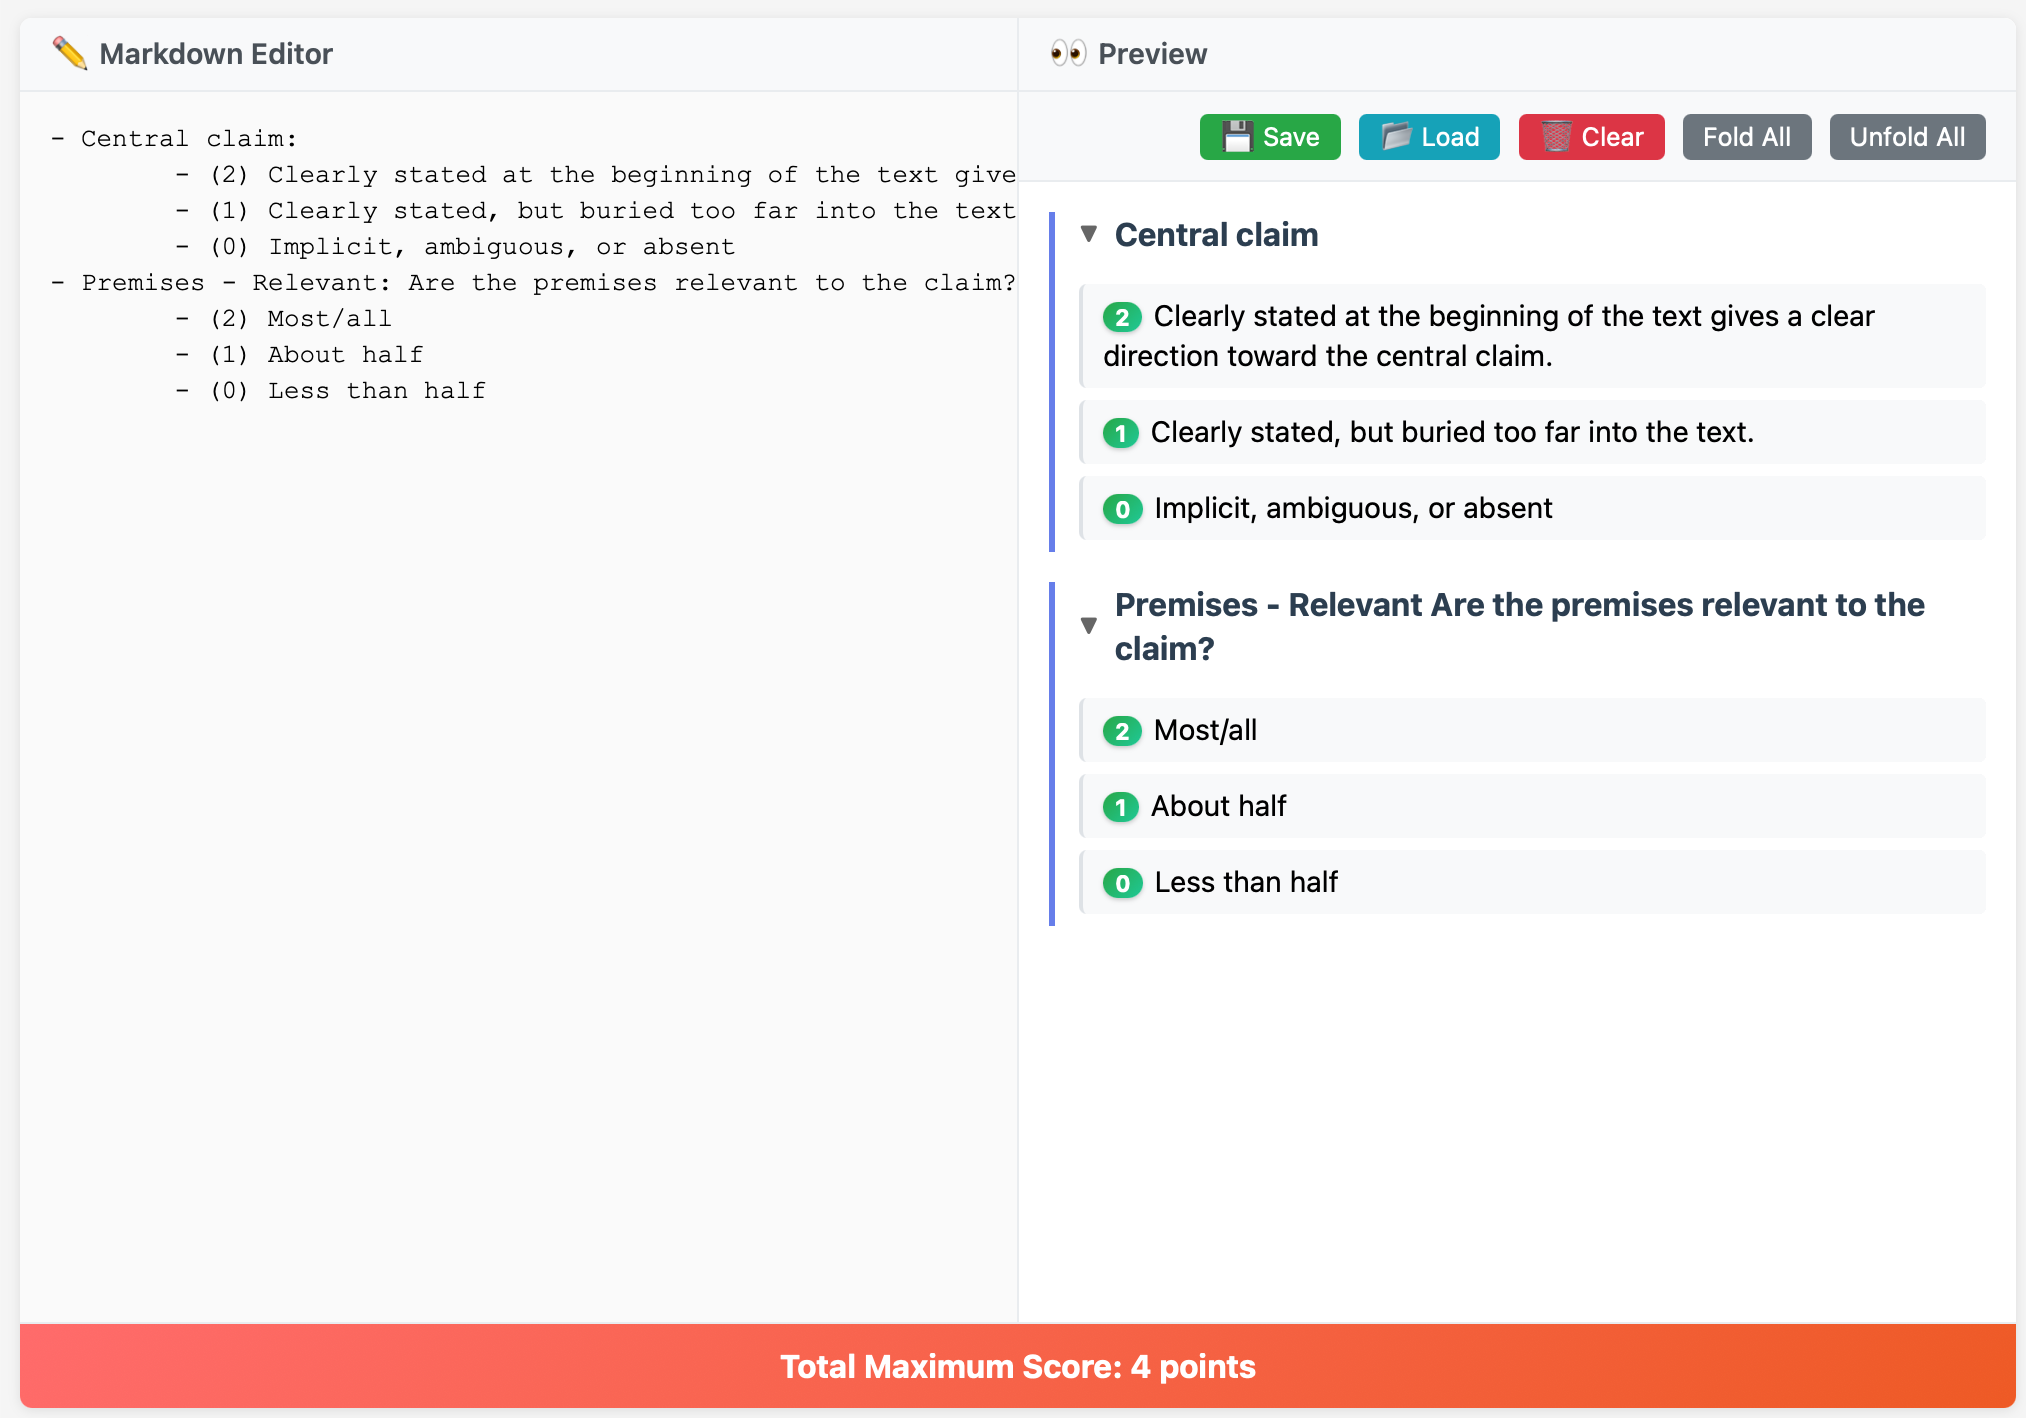
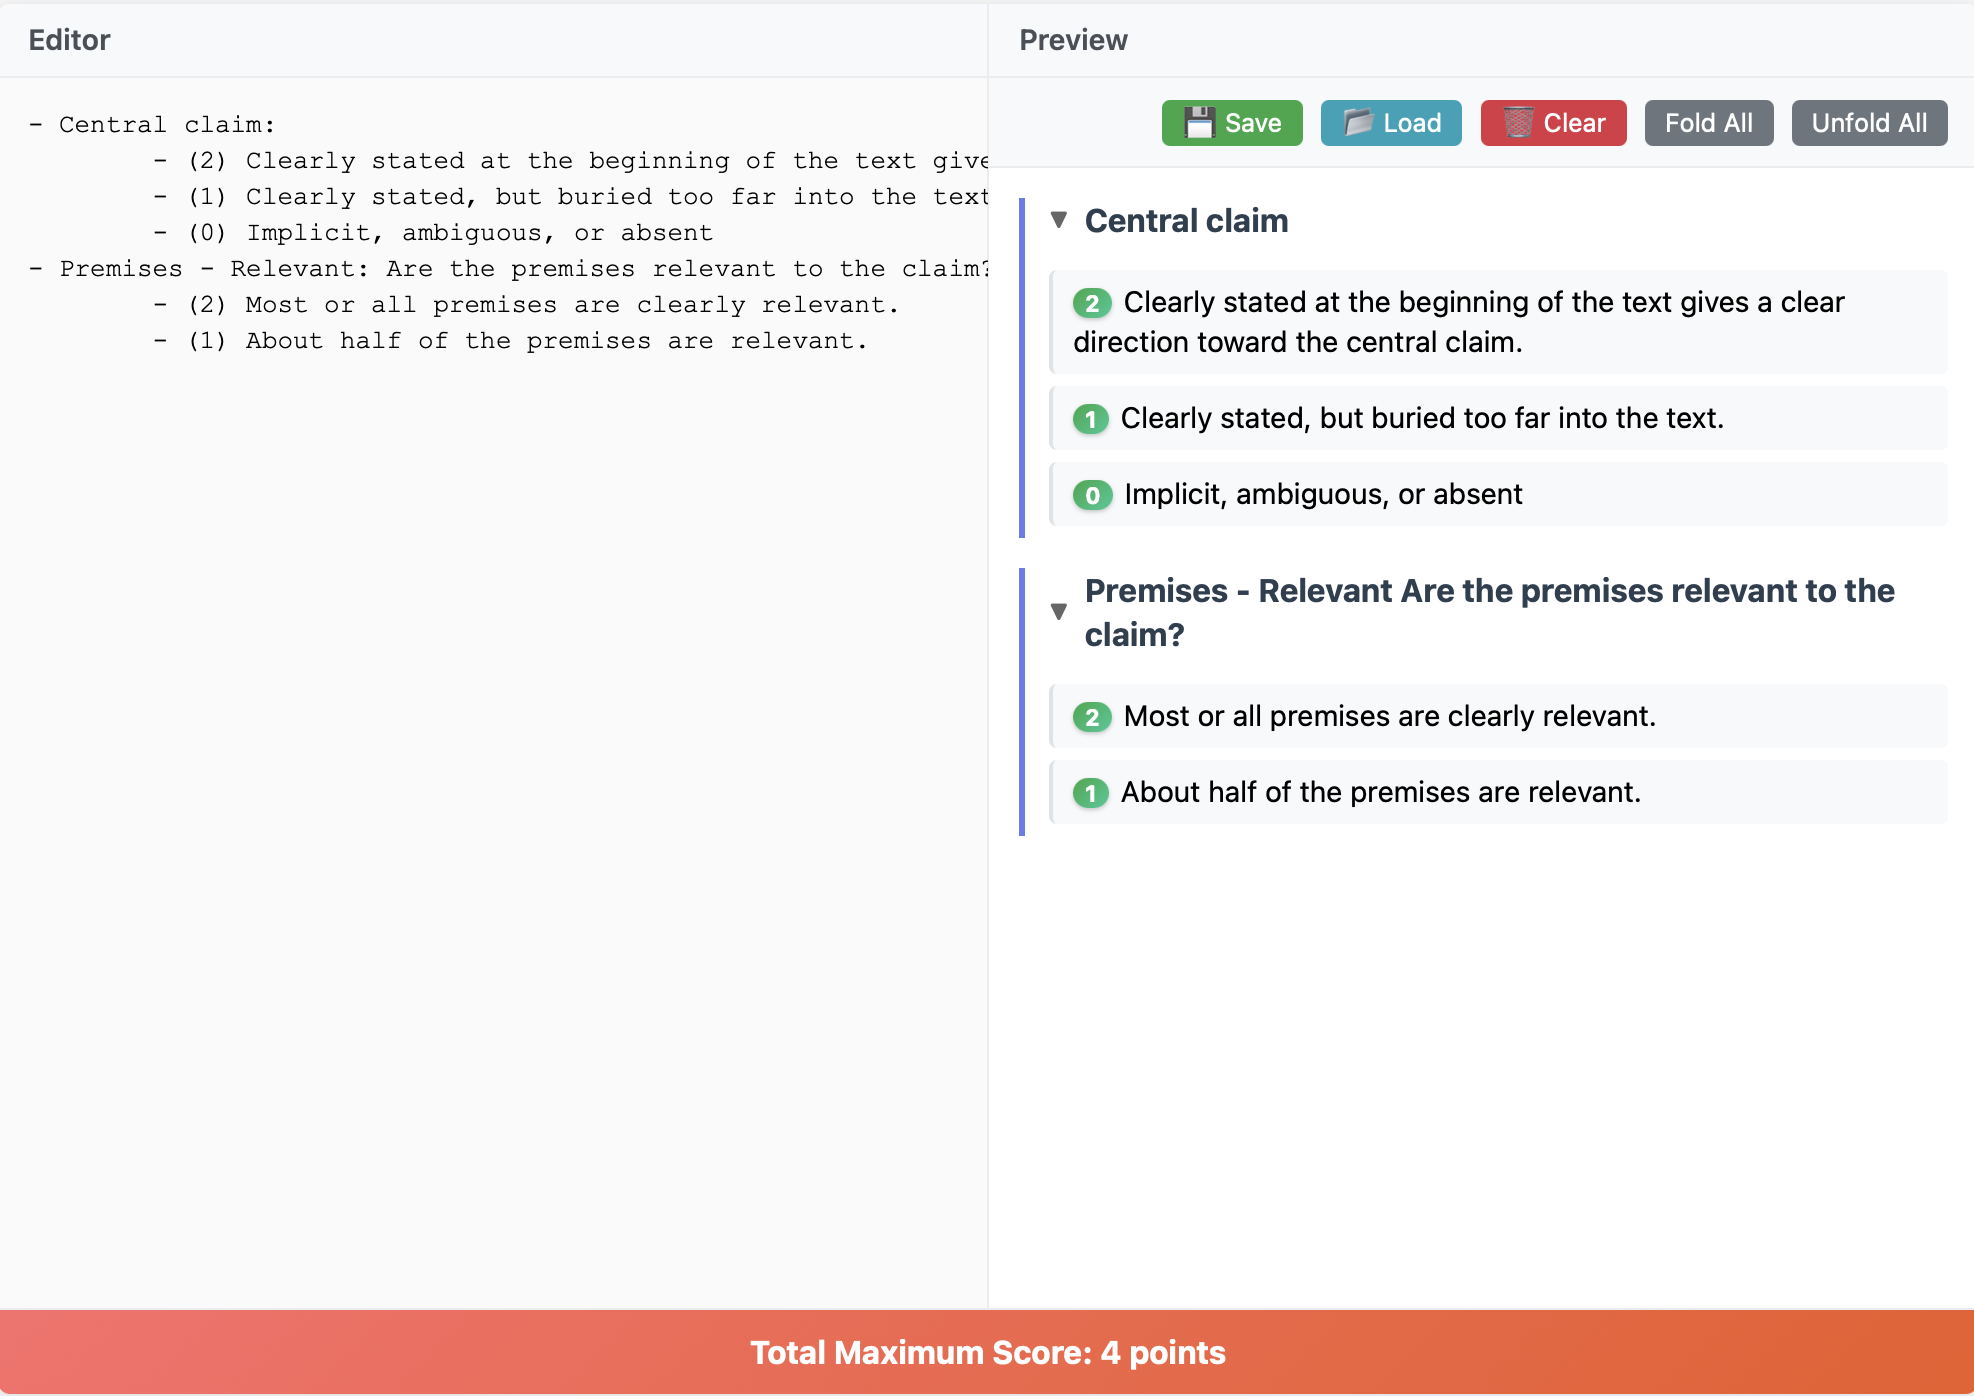
improve README and the screens for demonstrating the features

diff --git a/rubric_editor.html b/rubric_editor.html
@@ -232,7 +232,7 @@
     <div class="container">
         <div class="editor-container">
             <div class="editor-pane">
-                <div class="pane-header">✏️ Markdown Editor</div>
+                <div class="pane-header">Editor</div>
                 <textarea id="editor" placeholder="Enter your grading rubric in markdown format...
 
 Example:
@@ -241,13 +241,12 @@ Example:
 	- (1) Clearly stated, but buried too far into the text.
 	- (0) Implicit, ambiguous, or absent
 - Premises - Relevant: Are the premises relevant to the claim?
-	- (2) Most/all
-	- (1) About half
-	- (0) Less than half"></textarea>
+	- (2) Most or all premises are clearly relevant.
+	- (1) About half of the premises are relevant."></textarea>
             </div>
             
             <div class="preview-pane">
-                <div class="pane-header">👀 Preview</div>
+                <div class="pane-header">Preview</div>
                 <div class="controls">
                     <button class="btn save" onclick="saveToLocalStorage()">💾 Save</button>
                     <button class="btn load" onclick="loadFromLocalStorage()">📂 Load</button>
@@ -666,9 +665,8 @@ Example:
 \t- (1) Clearly stated, but buried too far into the text.
 \t- (0) Implicit, ambiguous, or absent
 - Premises - Relevant: Are the premises relevant to the claim?
-\t- (2) Most/all
-\t- (1) About half
-\t- (0) Less than half`;
+\t- (2) Most or all premises are clearly relevant.
+\t- (1) About half of the premises are relevant.`;
 
         document.getElementById('editor').value = initialContent;
         updatePreview();

diff --git a/README.md b/README.md
@@ -2,10 +2,10 @@
 
 Both tools run locally on your web browser.
 
-## [`rubric_editor.html`](https://chatw.ch/grading_rubric_tools/rubric_editor.html) - Interactive rubric editor
+## [`rubric_editor.html`](https://chatw.ch/grading_rubric_tools/rubric_editor.html){:target="_blank"} - Interactive rubric editor
 ![Screenshot of rubric editor tool](doc/rubric_editor.png)
 
-## [`rubric_grader.html`](https://chatw.ch/grading_rubric_tools/rubric_grader.html) - Using rubric in grading
+## [`rubric_grader.html`](https://chatw.ch/grading_rubric_tools/rubric_grader.html){:target="_blank"} - Using rubric in grading
 ![Screenshot of rubric grading tool](doc/rubric_grader.png)
 
 ## Credits